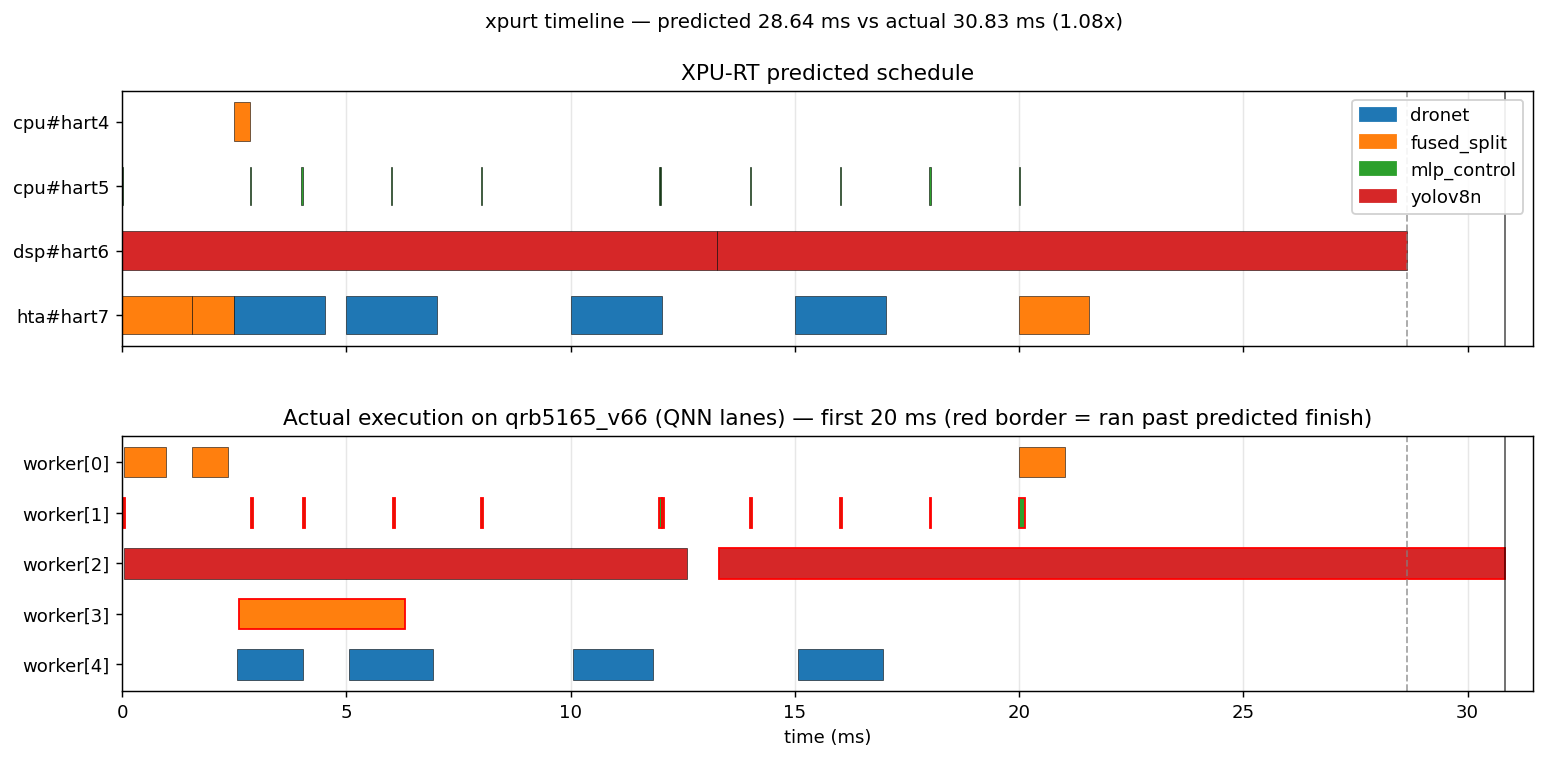
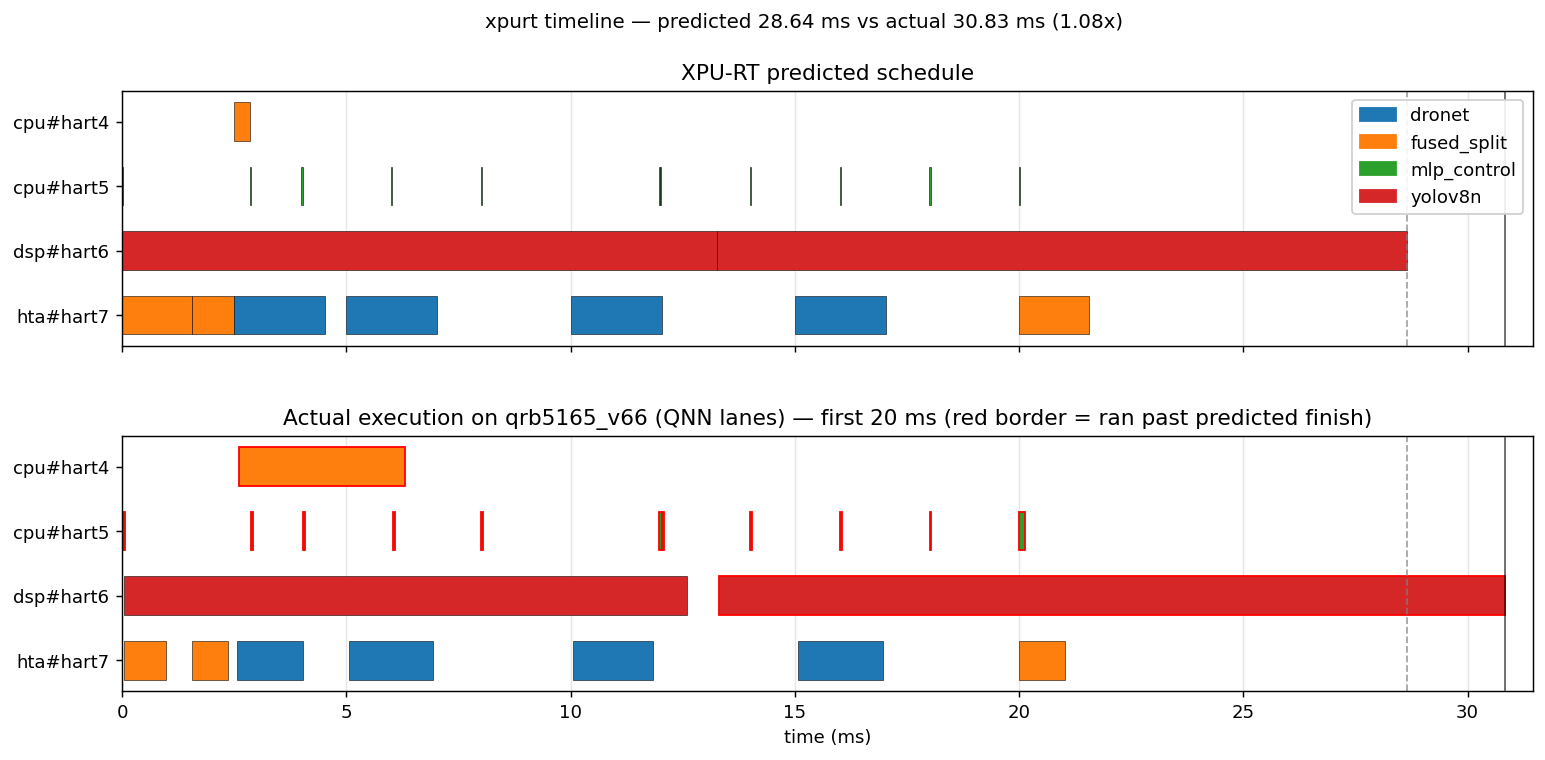
plots: lane the actual-execution panel by hardware, not by worker index
modelblaster's renderer lanes the predicted panel by kind#hart and the
actual panel by worker index, so the two stacked gantts don't line up —
and in kind-network mode the worker indices are an implementation detail
(two HTA lanes are still one HTA). Flow C now draws both panels on the same
kind#hart rows, so a row reads straight down from plan to execution.

Its parser stays modelblaster's `parse_trace` — the schema contract is the
part worth sharing; `--plot-style mb` still renders with the original.
Worth pushing upstream as a small change to render_plot, since Flow A's
workers are per core kind too.

Changed region(s): [[0.0, 0.6658, 0.9942, 0.9079], [0.0, 0.575, 0.2796, 0.6658], [0.6524, 0.575, 0.7146, 0.6355]]

diff --git a/qnn_models/flow_c/flowc/plots.py b/qnn_models/flow_c/flowc/plots.py
@@ -31,15 +31,82 @@ def _load_plotter():
     return module
 
 
+def _render_by_hardware(rows, out_path: str, source: str) -> None:
+    """Both panels lane-by-hardware.
+
+    modelblaster's renderer lanes the actual panel by worker index, which
+    reads as `worker[0]`/`worker[1]` and doesn't line up with the predicted
+    panel's `kind#hart` rows — and in kind-network mode the worker indices
+    are an implementation detail (two HTA lanes are still one HTA). Rows
+    carry `core_kind` and `hart`, so the actual panel can use the same key
+    the predicted panel does, and the two stack read directly against each
+    other.
+    """
+    import matplotlib
+    matplotlib.use("Agg")
+    import matplotlib.pyplot as plt
+
+    nets = sorted({r.network for r in rows})
+    palette = plt.get_cmap("tab10")
+    color_for = {n: palette(i % 10) for i, n in enumerate(nets)}
+
+    lane_keys = sorted({(r.core_kind, r.hart) for r in rows})
+    lane_idx = {k: i for i, k in enumerate(lane_keys)}
+    labels = [f"{kind}#hart{hart}" for kind, hart in lane_keys]
+
+    pred_makespan = max(r.predicted_start_ms + r.predicted_duration_ms for r in rows)
+    actual_makespan = max(r.actual_end_ms for r in rows)
+    xmax = max(pred_makespan, actual_makespan) * 1.02
+
+    fig, (ax_pred, ax_actual) = plt.subplots(
+        2, 1, figsize=(14, 6), sharex=True, gridspec_kw={"hspace": 0.35})
+    bar_h = 0.6
+    for r in rows:
+        key = lane_idx[(r.core_kind, r.hart)]
+        c = color_for[r.network]
+        ax_pred.barh(key, r.predicted_duration_ms, left=r.predicted_start_ms,
+                     height=bar_h, color=c, edgecolor="black", linewidth=0.3)
+        pred_end = r.predicted_start_ms + r.predicted_duration_ms
+        overrun = r.actual_end_ms > pred_end + 0.001
+        ax_actual.barh(key, r.actual_duration_ms, left=r.actual_start_ms,
+                       height=bar_h, color=c,
+                       edgecolor="red" if overrun else "black",
+                       linewidth=1.0 if overrun else 0.3)
+
+    for ax, title in ((ax_pred, "XPU-RT predicted schedule"),
+                      (ax_actual, f"Actual execution on {source} "
+                                  f"(red border = ran past predicted finish)")):
+        ax.set_yticks(list(lane_idx.values()))
+        ax.set_yticklabels(labels)
+        ax.set_title(title)
+        ax.set_xlim(0, xmax)
+        ax.invert_yaxis()
+        ax.set_axisbelow(True)
+        ax.grid(axis="x", alpha=0.3)
+        ax.axvline(pred_makespan, color="gray", linestyle="--", linewidth=1.0, alpha=0.7)
+        ax.axvline(actual_makespan, color="black", linestyle="-", linewidth=1.0, alpha=0.6)
+    ax_actual.set_xlabel("time (ms)")
+    ax_pred.legend(handles=[plt.Rectangle((0, 0), 1, 1, color=color_for[n], label=n)
+                            for n in nets],
+                   loc="upper right", framealpha=0.9)
+    fig.suptitle(f"xpurt timeline — predicted {pred_makespan:.2f} ms vs actual "
+                 f"{actual_makespan:.2f} ms ({actual_makespan / pred_makespan:.2f}x)",
+                 fontsize=11)
+    fig.savefig(out_path, dpi=130, bbox_inches="tight")
+    plt.close(fig)
+
+
 def render(log_path: str, out_full: str, out_zoom: str | None = None,
            csv_path: str | None = None, source: str = "QRB5165 (QNN)",
-           zoom_ms: float | None = None) -> dict:
+           zoom_ms: float | None = None, style: str = "hw") -> dict:
     plotter = _load_plotter()
     with open(log_path) as f:
         text = f.read()
     rows = plotter.parse_trace(text, clock_mhz=1.0)   # trace ticks are microseconds
     os.makedirs(os.path.dirname(os.path.abspath(out_full)), exist_ok=True)
-    plotter.render_plot(rows, out_full, source=source)
+    draw = (_render_by_hardware if style == "hw"
+            else lambda rr, path, source: plotter.render_plot(rr, path, source=source))
+    draw(rows, out_full, source)
     if csv_path:
         plotter.write_csv(rows, csv_path)
 
@@ -53,7 +120,7 @@ def render(log_path: str, out_full: str, out_zoom: str | None = None,
             zoom_ms = max(makespan / 4.0, 20.0)
         sub = [r for r in rows if r.predicted_start_ms <= zoom_ms]
         if sub:
-            plotter.render_plot(sub, out_zoom, source=f"{source} — first {zoom_ms:.0f} ms")
+            draw(sub, out_zoom, f"{source} — first {zoom_ms:.0f} ms")
             out["zoom"] = out_zoom
             out["zoom_ms"] = zoom_ms
     return out

diff --git a/qnn_models/flow_c/flow_c.py b/qnn_models/flow_c/flow_c.py
@@ -250,7 +250,8 @@ def stage_plots(wl: dict, args) -> None:
         out_full=os.path.join(out_dir, f"{wl['name']}{_tag(args)}_predicted_vs_actual.png"),
         out_zoom=os.path.join(out_dir, f"{wl['name']}{_tag(args)}_predicted_vs_actual_zoom.png"),
         csv_path=os.path.join(log_dir, "trace.csv"),
-        source=f"{wl.get('board', 'board')} (QNN lanes)")
+        source=f"{wl.get('board', 'board')} (QNN lanes)",
+        style=args.plot_style)
     print(res["summary"])
     print(f"\npredicted vs actual : {os.path.relpath(res['full'], REPO)}")
     if "zoom" in res:
@@ -286,6 +287,9 @@ def main() -> None:
     ap.add_argument("--ctx-source", default="/root/repro_perlane",
                     help="board-side directory holding the context binaries to link")
     ap.add_argument("--log-dir", default=None)
+    ap.add_argument("--plot-style", default="hw", choices=["hw", "mb"],
+                    help="hw: both gantt panels lane by kind#hart (default); "
+                         "mb: modelblaster's renderer, actual panel by worker index")
     ap.add_argument("--tuned", action="store_true",
                     help="run in the state the cost model was measured in: "
                          "performance governor on the board plus a warm-up "
